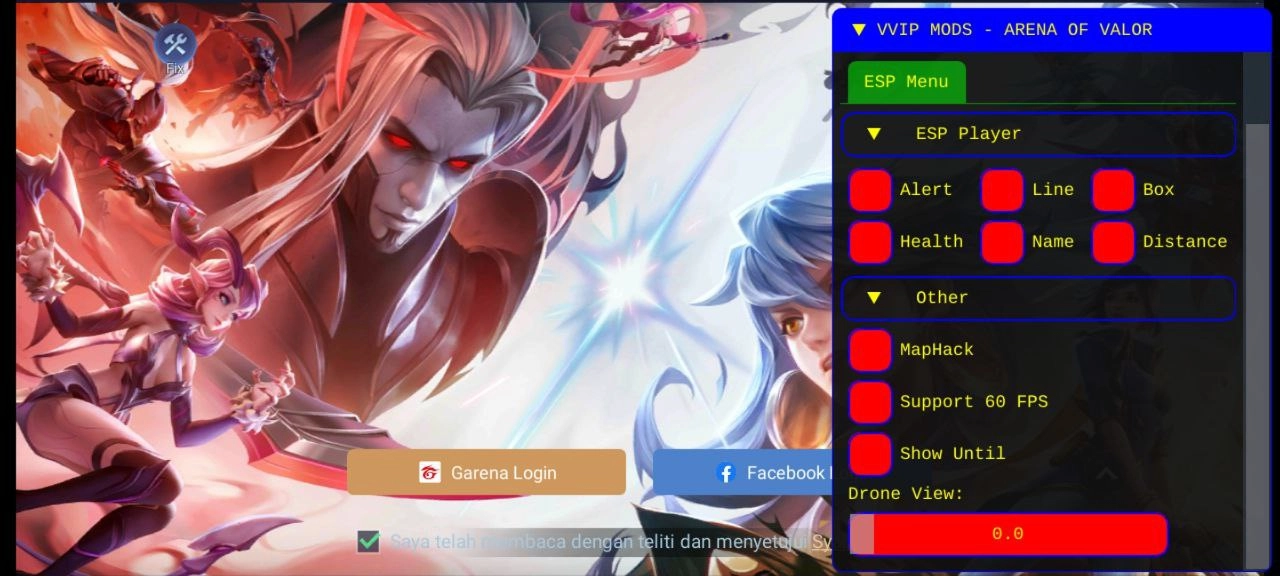
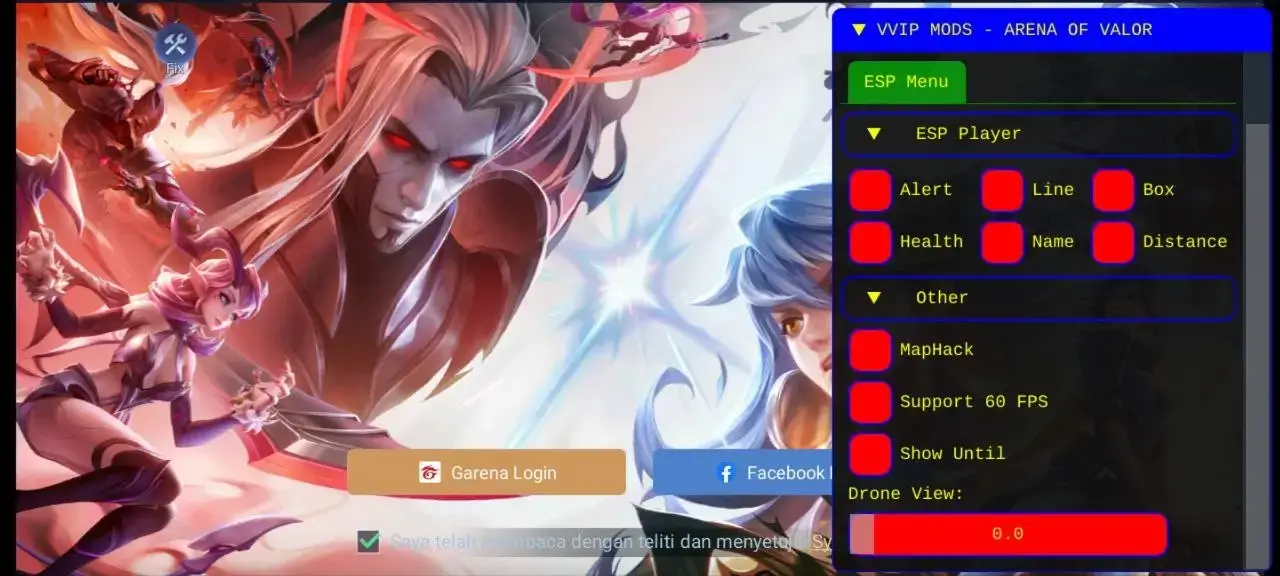
update "optimisasi gambar dengan tinypng"

diff --git a/index.html b/index.html
@@ -202,7 +202,7 @@
           <div class="row content">
             <div class="col-lg-5 d-flex justify-content-center align-content-center" data-aos="fade-right">
               <div class="d-flex align-items-center w-50">
-                <img src="assets/img/apple-touch-icon.jpg" class="img-fluid rounded-4" alt="">
+                <img src="assets/img/apple-touch-icon.webp" class="img-fluid rounded-4" alt="">
               </div>
             </div>
             <div class="col-lg-7 pt-4" data-aos="fade-up">
@@ -1027,7 +1027,7 @@
               <p>- ALVIN CHEAT -</p>
               <div class="d-flex justify-content-center align-items-center">
                 <div class="w-50 text-center">
-                  <img src="assets/img/alvin-cheat.png" class="img-fluid w-75 my-3" alt="">
+                  <img src="assets/img/alvin-cheat.webp" class="img-fluid w-75 my-3" alt="">
                 </div>
               </div>
               <p class="pb-3"><em>Kesenangan anda adalah kepuasan kami.</em></p>
